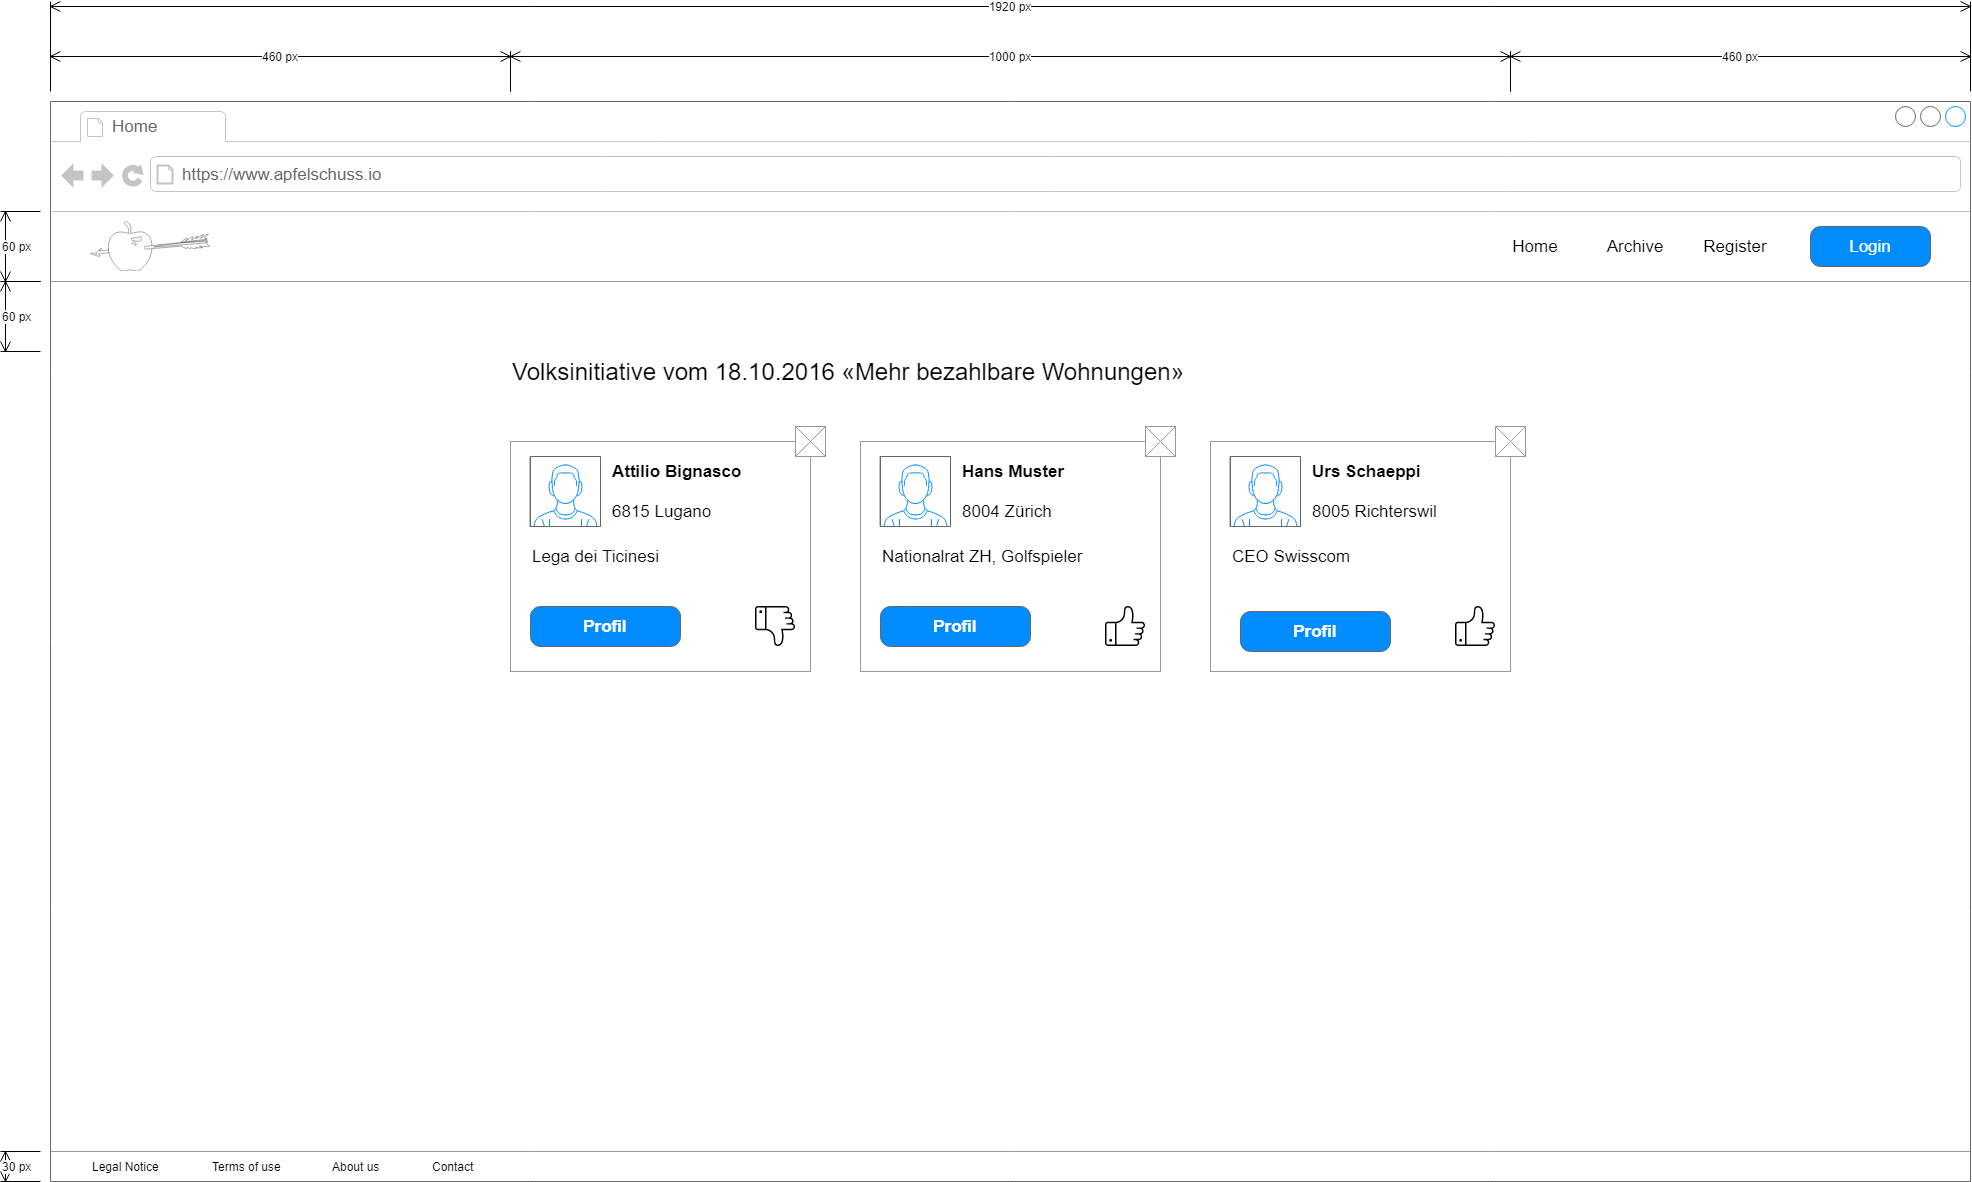
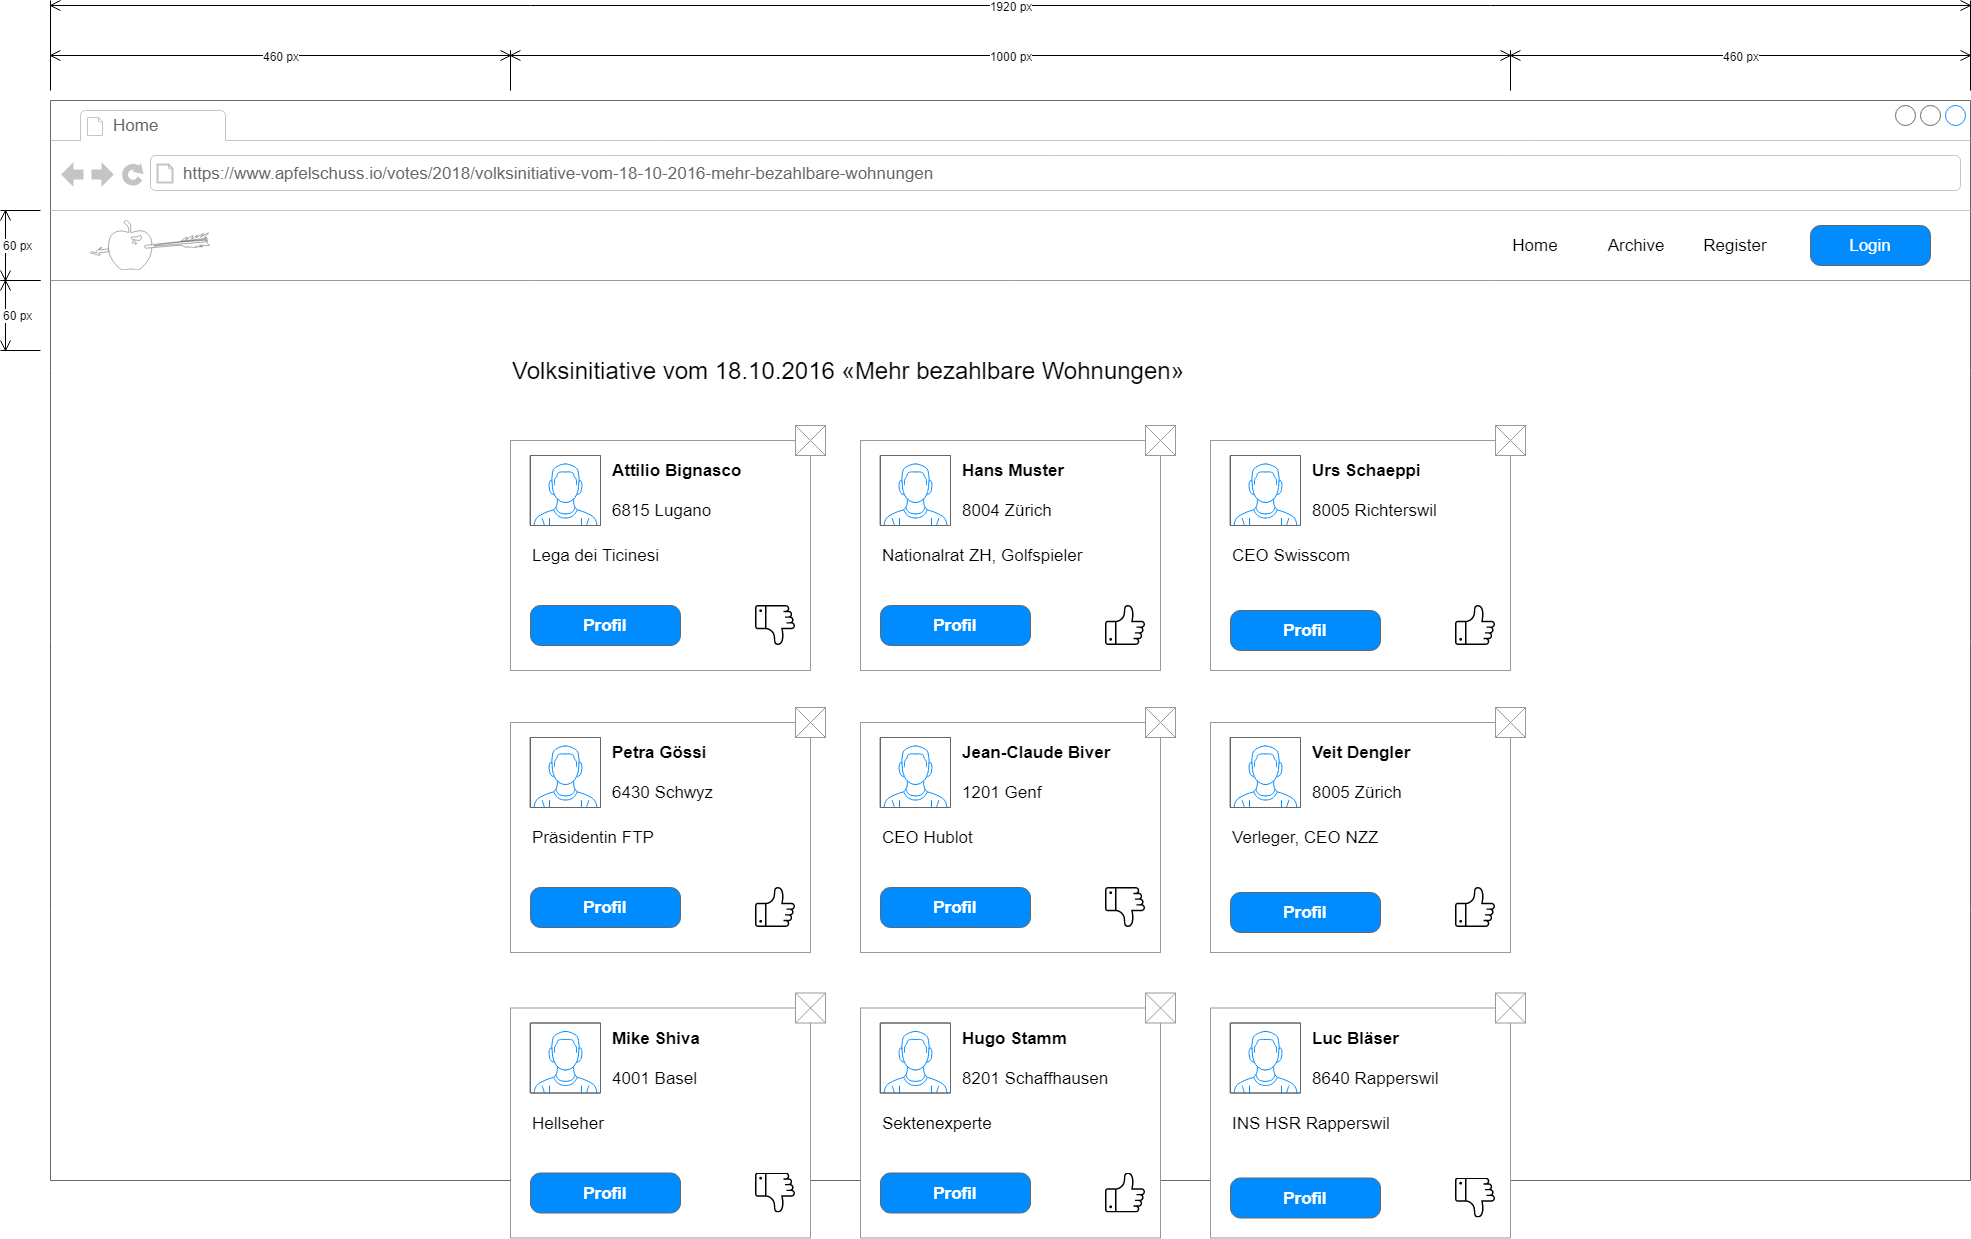
improved voting example layout

diff --git a/README.md b/README.md
@@ -30,3 +30,12 @@ The archive shows all past votings with official results in comparison to apfels
 * A detail button that leads to more information (description, movie, voters with their name and the areay where they live)
 
 ![archive](export/archive.png)
+
+
+## Voting example
+
+Detailed view of a voting.
+* Voting title
+* Voters with profile picture, name, bio and residence
+
+![voting example](export/voting-example.png)
